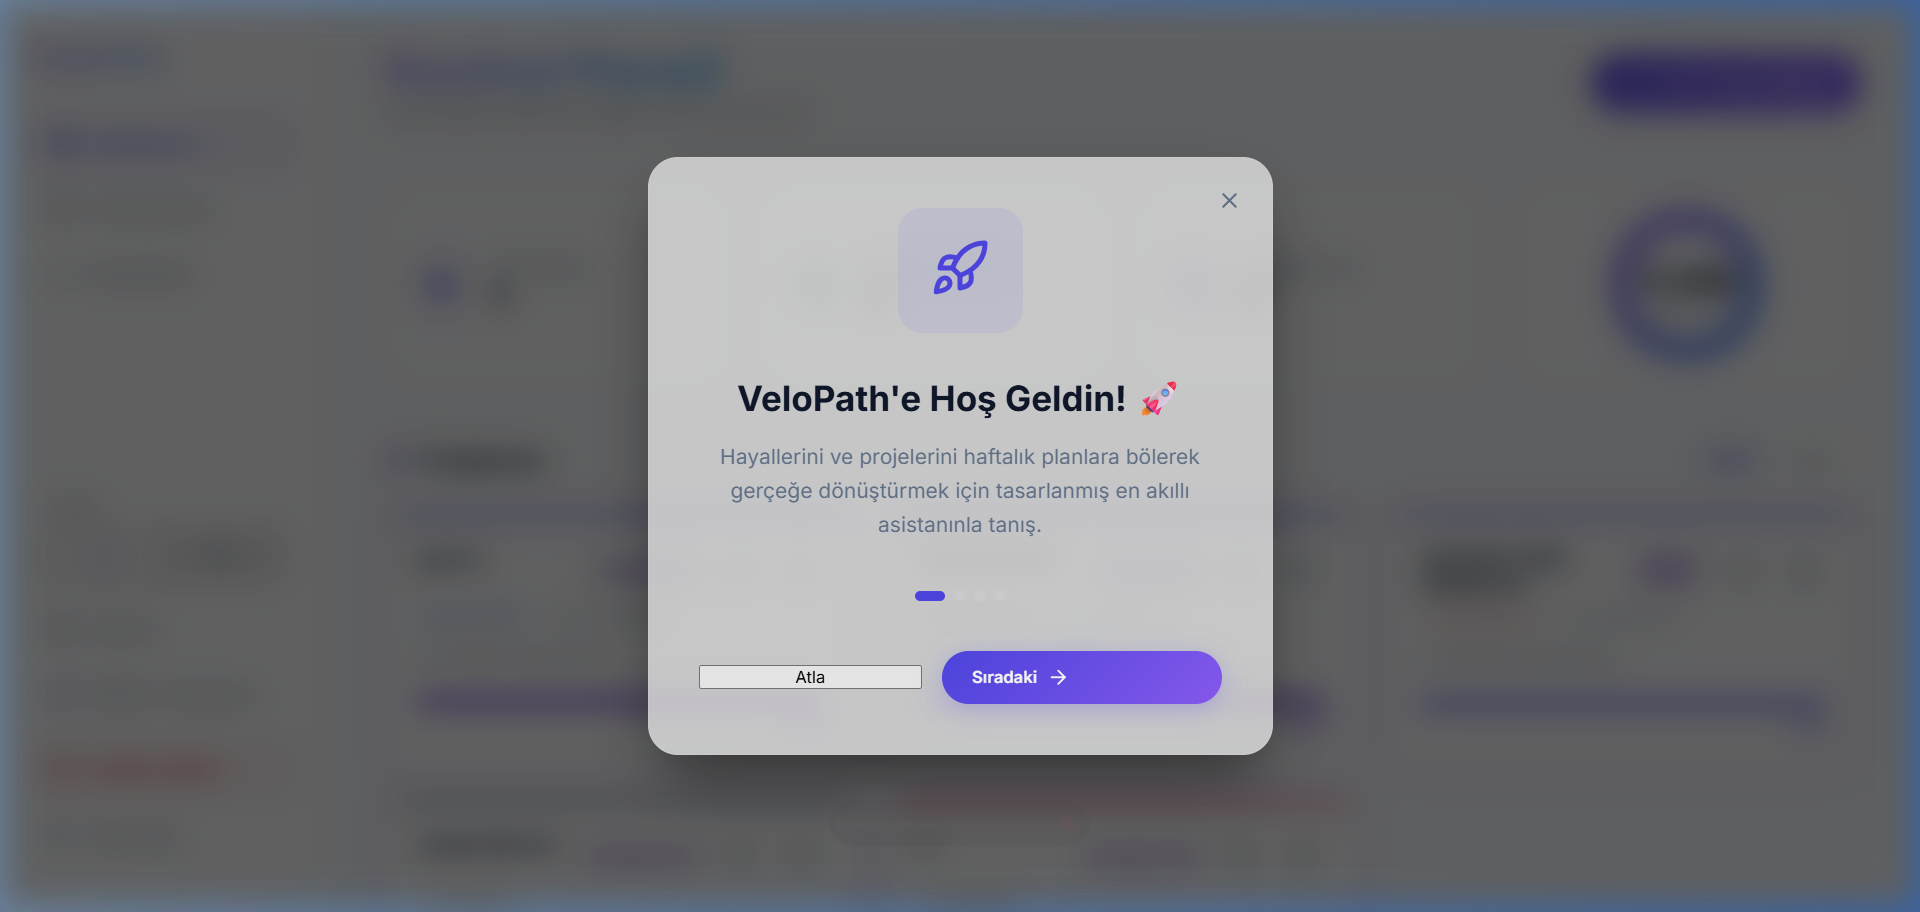
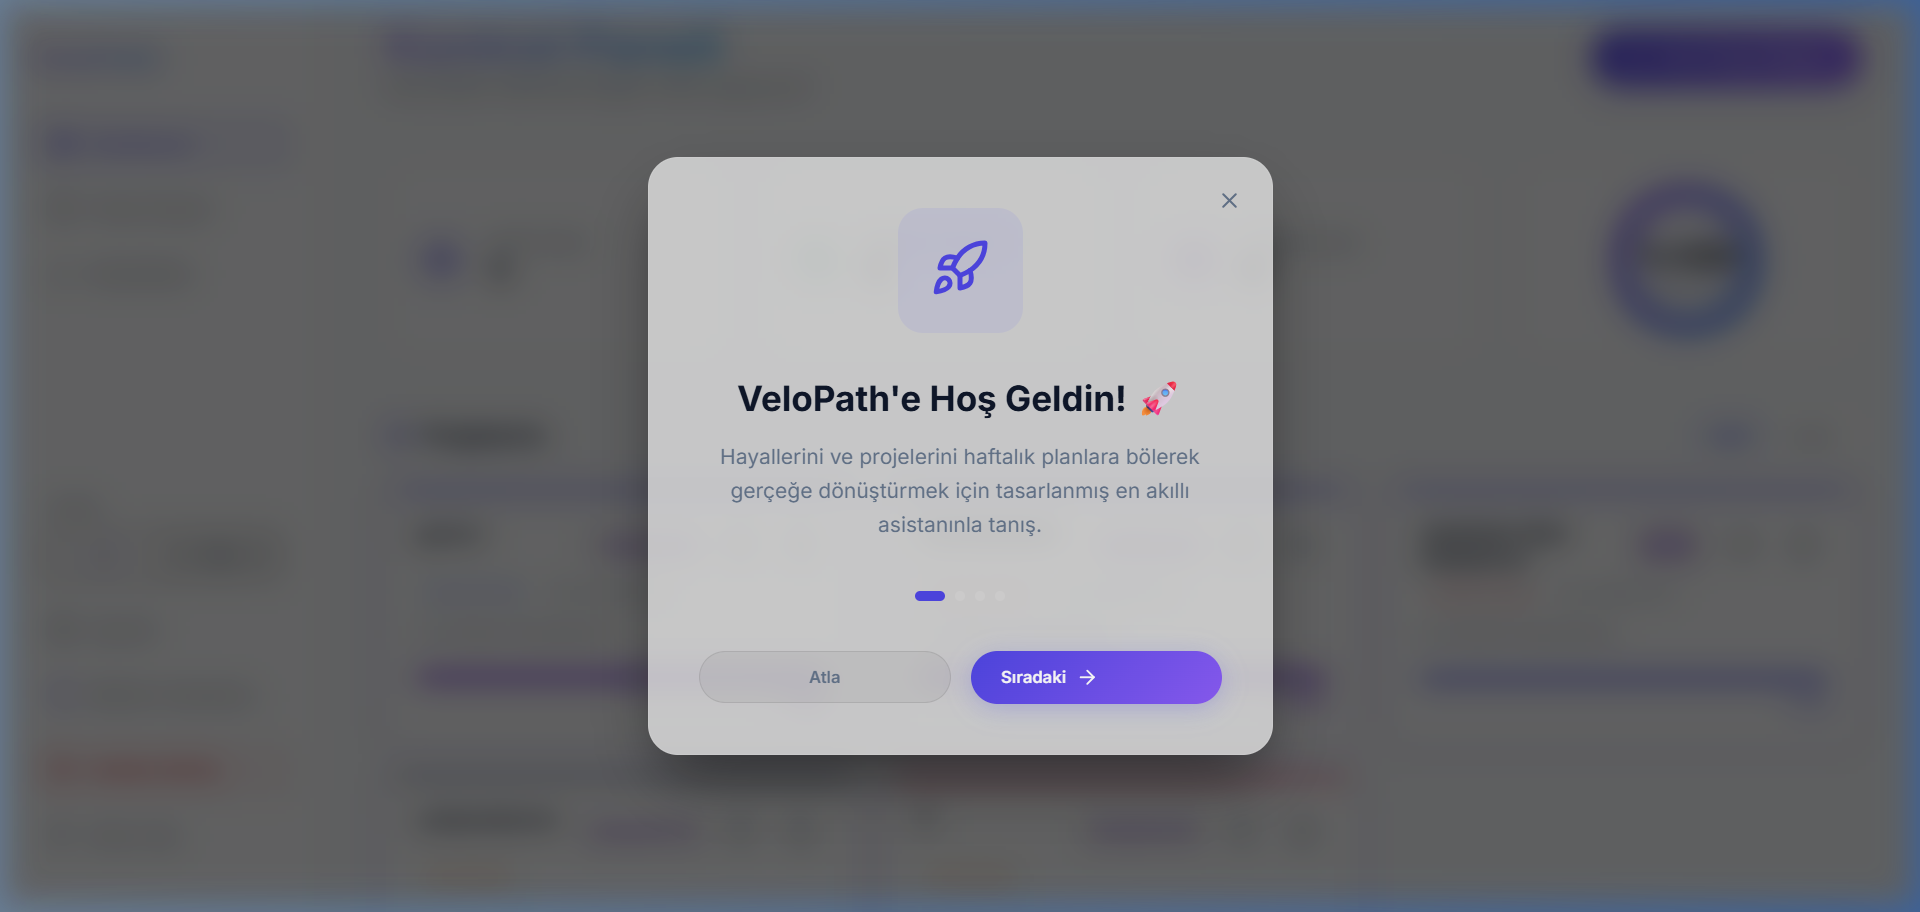
fix: onboarding ekranındaki Atla butonu stilize edildi, genel temayla uyumlu hale getirildi

Changed region(s): [[0.3438, 0.7061, 0.5625, 0.7675], [0.8125, 0.0921, 0.9688, 0.1228], [0.8125, 0.0307, 0.9688, 0.0614]]

diff --git a/web/src/styles/App.css b/web/src/styles/App.css
@@ -112,6 +112,38 @@ body {
   box-shadow: 0 8px 25px rgba(99, 102, 241, 0.5);
 }
 
+.button-secondary {
+  background: rgba(255, 255, 255, 0.05);
+  color: var(--text-secondary);
+  border: 1px solid rgba(255, 255, 255, 0.1);
+  padding: 12px 24px;
+  border-radius: 9999px;
+  cursor: pointer;
+  font-weight: 600;
+  transition: all 0.3s ease;
+  display: inline-flex;
+  align-items: center;
+  justify-content: center;
+}
+
+.button-secondary:hover {
+  background: rgba(255, 255, 255, 0.1);
+  color: var(--text-primary);
+  border-color: rgba(255, 255, 255, 0.2);
+}
+
+[data-theme='light'] .button-secondary {
+  background: rgba(0, 0, 0, 0.05);
+  color: var(--text-secondary);
+  border-color: rgba(0, 0, 0, 0.08);
+}
+
+[data-theme='light'] .button-secondary:hover {
+  background: rgba(0, 0, 0, 0.08);
+  color: var(--text-primary);
+  border-color: rgba(0, 0, 0, 0.15);
+}
+
 .card {
   background: rgba(15, 23, 42, 0.3);
   backdrop-filter: blur(24px);
